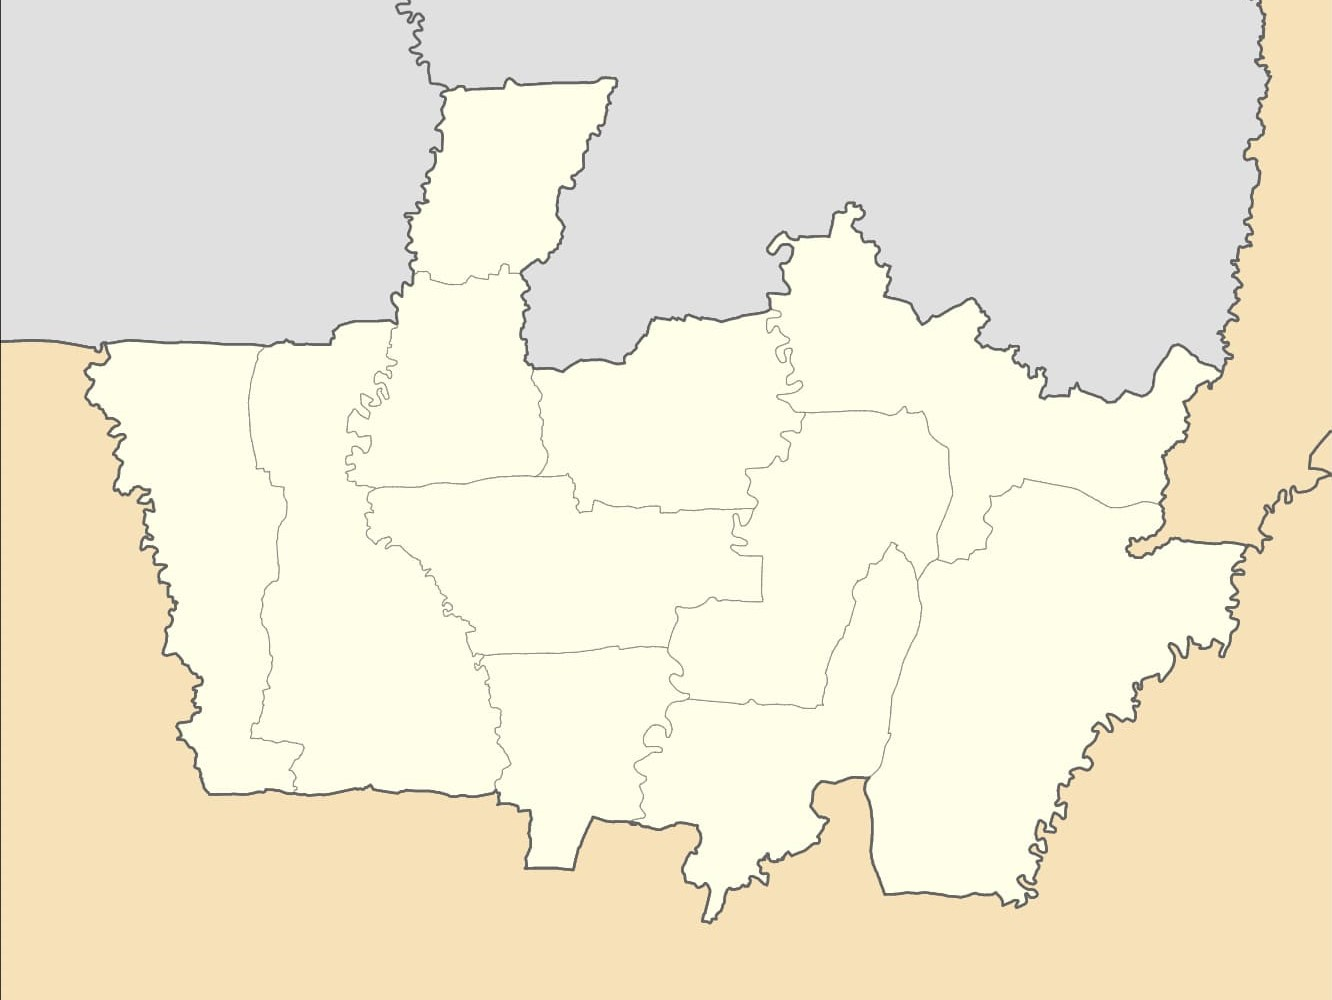
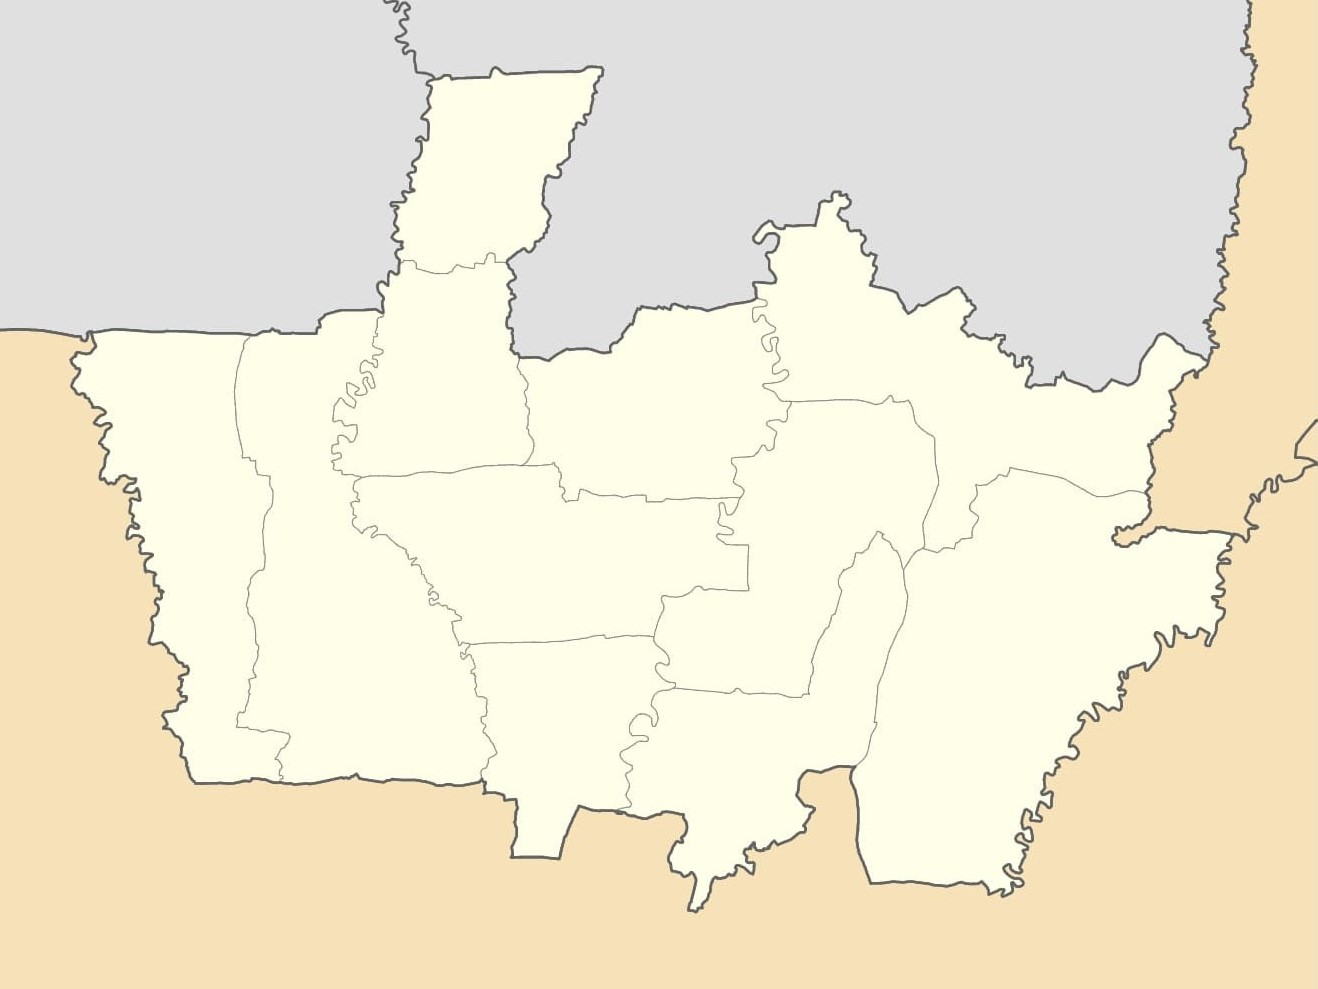
menambahkan bootstrap pada home page

diff --git a/public/css/home.css b/public/css/home.css
@@ -6,7 +6,7 @@
     --box-shadow-footer: rgba(99, 99, 99, 0.2) 0px -2px 8px 0px;
     --theme-color: rgba(47, 55, 144, 1);
     --card-color: rgb(245, 245, 245);
-    --card-transparent-color: rgba(245, 245, 245, 0.7);
+    --card-transparent-color: rgba(245, 245, 245, 0.8);
     --card-gradient-color: linear-gradient(var(--card-color),rgba(234, 234, 234, 1));
     font-size: 12px;
 }
@@ -25,7 +25,7 @@
 }
 
 body {
-    background-color: rgb(202, 212, 218);
+    background-color: var(--theme-color);
 }
 body,
 body * {
@@ -79,6 +79,12 @@ body * {
 }
 
 /*** 2.2 - sambutan ***/
+.sambutan-video > img {
+    object-fit: scale-down;
+    width: 100%;
+    height: 100%;
+    border-radius: 10px;
+}
 
 /*** 2.3 - cuaca ***/
 .cuaca-frame {
@@ -97,9 +103,19 @@ body * {
 .peta-frame {
     flex-direction: column;
 }
+.peta-img > img {
+    object-fit: scale-down;
+    width: 100%;
+    height: 100%;
+    border-radius: 10px;
+}
 
 .peta-body > h2 {
     white-space: nowrap;
+}
+
+.legenda {
+    padding-left: 1.5rem;
 }
 
 /*** 2.5 - kontak serfis ***/
@@ -130,25 +146,65 @@ body * {
     background: var(--card-gradient-color);
     bottom: 0;
     box-shadow: var(--box-shadow-footer);
-    gap: 1rem;
     height: 56px;
     justify-content: center;
     padding: 0;
     position: fixed;
     width: 100%;
 }
-.footer  * {
+.footer * {
     margin-block: auto;
     white-space: nowrap;
     list-style: none;
     text-decoration: none;
     color: black;
+    width: 14rem;
+    text-align: center;
+    font-size: calc(1rem - 2px);
 }
 
-@media (min-width: 1024px) {
+@media (min-width: 768px) {
     .content {
-        grid-template-columns: 1fr 1fr 1fr 1fr;
-        grid-template-rows: repeat(3, 32%);
+        grid-template-columns: repeat(2, 1fr);
+        grid-template-rows: repeat(7, 1fr);
+        gap: 1rem;
+        padding: 3rem 5rem;
+    }
+    
+    .logo-frame {
+        justify-content: start;
+        gap: 2rem;
+        border-radius: 0 0 50px 0;
+        width: 30%;
+        z-index: 10;
+    }
+    .marquee-frame {
+        box-shadow: var(--box-shadow-header);
+        display: block;
+    }
+    .sambutan-frame {
+        grid-column: span 2;
+    }
+    .peta-frame {
+        grid-column: span 2;
+        flex-direction: row;
+    }
+    .berita-frame {
+        grid-row: span 1;
+    }
+    .cuaca-frame {
+        grid-row: span 1;
+    }
+    .kontak-frame {
+        grid-column: span 2;
+        flex-direction: row;
+    }
+}
+
+@media (min-width: 1025px) {
+    .content {
+        grid-template-columns: repeat(4, 1fr);
+        grid-template-rows: repeat(3, 1fr);
         gap: 1rem;
         padding: 3rem 5rem;
         height: calc(100vh - 112px);
@@ -164,6 +220,9 @@ body * {
     .marquee-frame {
         box-shadow: var(--box-shadow-header);
         display: block;
+    }
+    .sambutan-frame {
+        grid-column: span 1;
     }
     .peta-frame {
         grid-column: span 2;
@@ -183,9 +242,5 @@ body * {
 
     .berita-item {
         flex-direction: row;
-    }
-
-    .footer {
-        gap: 3rem;
     }
 }

diff --git a/resources/views/layouts/main.blade.php b/resources/views/layouts/main.blade.php
@@ -6,6 +6,7 @@
     <meta name="viewport" content="width=device-width, initial-scale=1.0">
     <meta http-equiv="X-UA-Compatible" content="ie=edge">
 
+    <link rel="stylesheet" href="https://cdn.jsdelivr.net/npm/bootstrap@4.6.1/dist/css/bootstrap.min.css" integrity="sha384-zCbKRCUGaJDkqS1kPbPd7TveP5iyJE0EjAuZQTgFLD2ylzuqKfdKlfG/eSrtxUkn" crossorigin="anonymous">
     <link rel="preconnect" href="https://fonts.googleapis.com">
     <link rel="preconnect" href="https://fonts.gstatic.com" crossorigin>
     <link href="https://fonts.googleapis.com/css2?family=Nunito:wght@400;700&display=swap" rel="stylesheet">
@@ -27,17 +28,17 @@
     <div class="content grid">
         <div class="sambutan-frame">
             <div class="sambutan-video">
-
+                <img src="images/home-screen/video.jpg">
             </div>
         </div>
         <div class="peta-frame flex">
             <div class="peta-img">
-
+                <img src="images/home-screen/depok-map.jpg">
             </div>
             <div class="peta-body">
                 <h2>Peta Kota Depok</h2>
                 <p>Kecamatan Beji</p>
-                <ul>
+                <ul class="legenda">
                     <li>Situ Jatijajar</li>
                     <li>Margo City</li>
                     <li>Stasiun Depok Baru</li>
